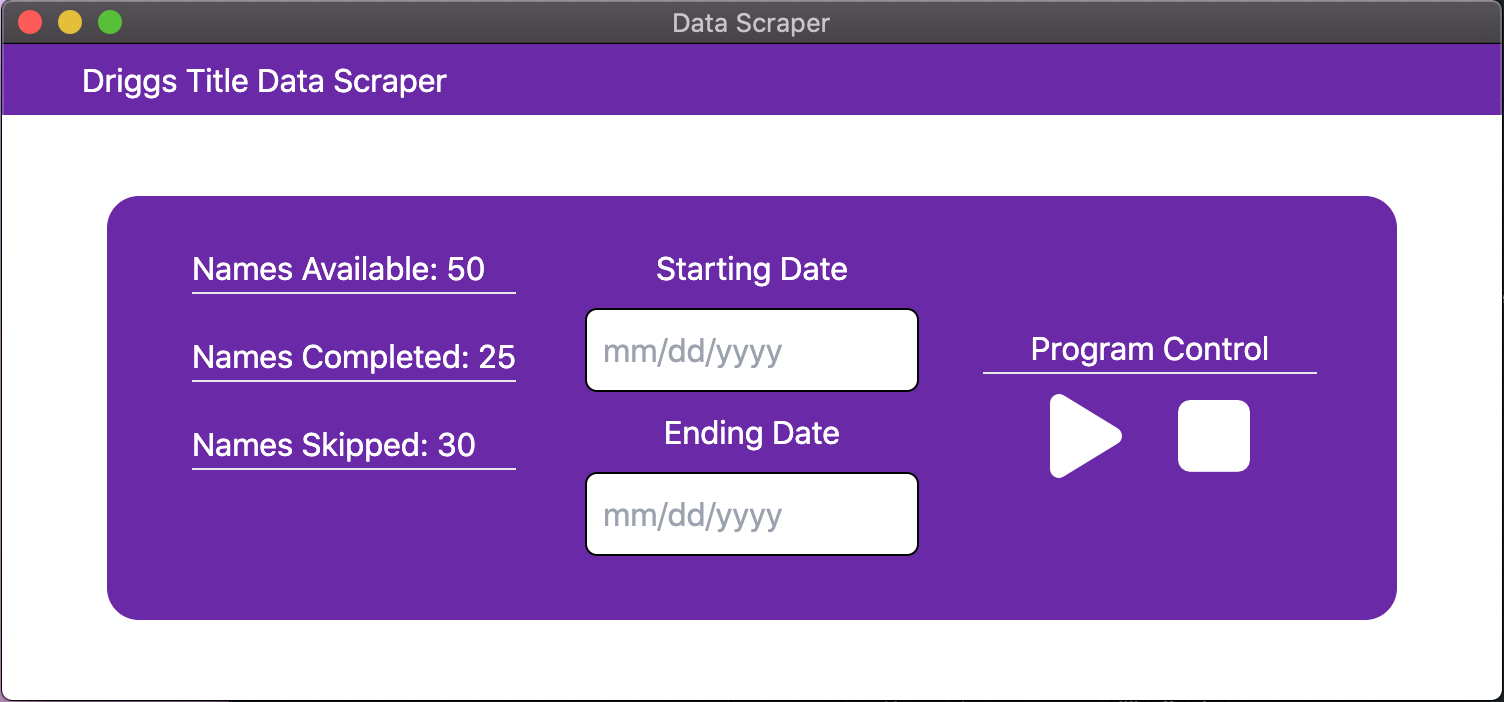
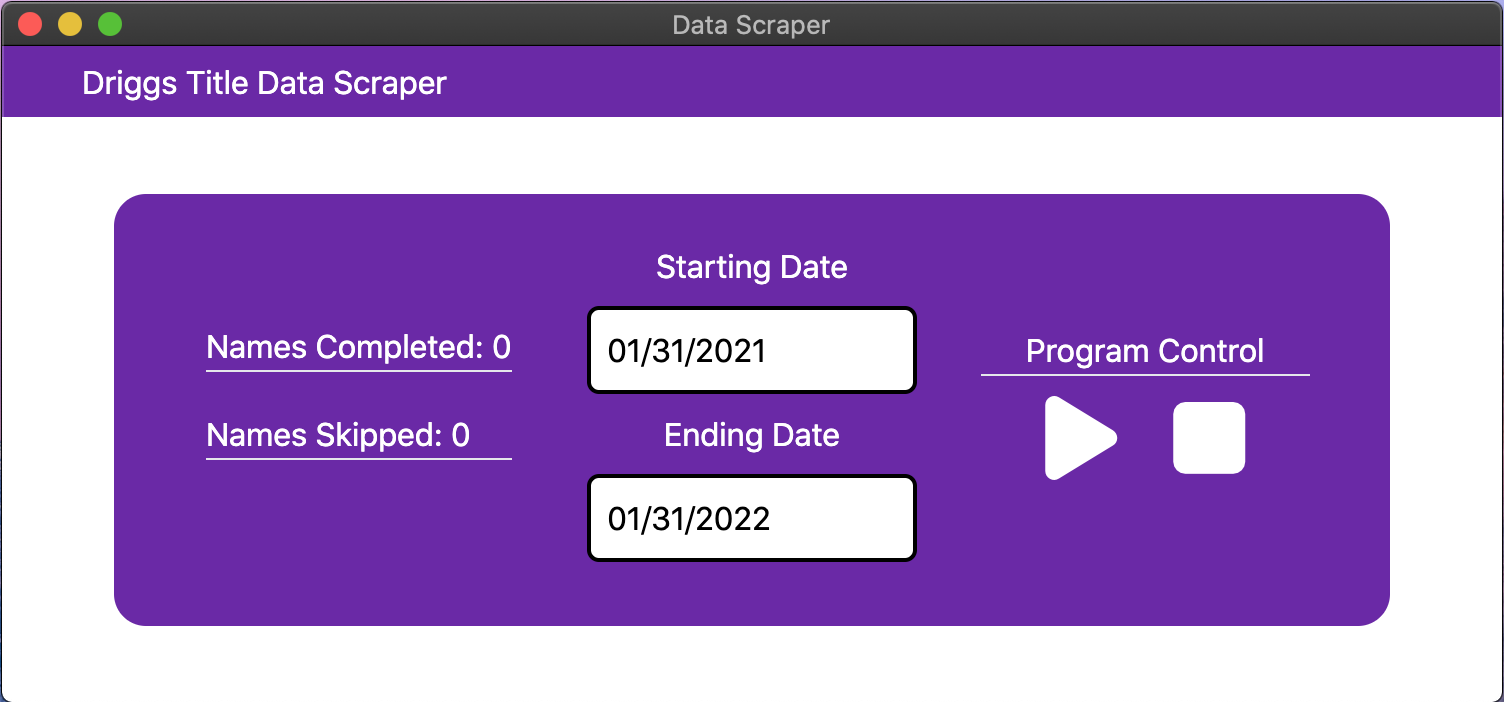
Added error messages, date validation
- Added error message/borders
- Date string validation
- Date range validation
- Improved MTA login routine
-  Updates screenshot
- Small readme updates

diff --git a/src/render/render.js b/src/render/render.js
@@ -2,6 +2,8 @@ const { ipcRenderer } = require('electron');
 
 const render = (function() {
 
+  const ERROR_DELAY = 1500;
+
   const startDate = document.getElementById('start-date');
   const endDate = document.getElementById('end-date');
 
@@ -13,6 +15,8 @@ const render = (function() {
   const namesCompleted = document.getElementById('completed');
   const namesSkipped = document.getElementById('skipped');
 
+  const errorMessage = document.getElementById('error');
+  const errorMessageText = document.getElementById('error-message');
 
   let play = false;
 
@@ -25,19 +29,50 @@ const render = (function() {
 
     playButton.addEventListener('click', function(e) {
 
-      let startingDate = startDate.value;
-      let endingDate = endDate.value;
+      let startingDateString = startDate.value;
+      let endingDateString = endDate.value;
 
       if (!play) {
-        playIcon.style.display = 'none';
-        pauseIcon.style.display = 'block';
-        play = true;
-        sendProgramState({play: 'play', dateOne: startingDate, dateTwo: endingDate});
+
+        if (isValidDate(startingDateString) && isValidDate(endingDateString) && isValidDateRange(startingDateString, endingDateString)) {
+          playIcon.style.display = 'none';
+          pauseIcon.style.display = 'block';
+          play = true;
+          sendProgramState({play: 'play', dateOne: startingDateString, dateTwo: endingDateString});
+        } else {
+          startShakeIcon(playIcon);
+          showError('Invalid date! <br />Dates must be entered in "mm/dd/yyyy" format.');
+
+          if (isValidDate(startingDateString) && isValidDate(endingDateString) &&
+              !isValidDateRange(startingDateString, endingDateString)) {
+            showError('Invalid date range! <br /> First date must take place before second date.');
+            addErrorBorder(startDate);
+            setTimeout(removeErrorBorder, ERROR_DELAY, startDate);
+            addErrorBorder(endDate);
+            setTimeout(removeErrorBorder, ERROR_DELAY, endDate);
+          } else {
+
+            if (!isValidDate(startingDateString)) {
+              addErrorBorder(startDate);
+              setTimeout(removeErrorBorder, ERROR_DELAY, startDate);
+            }
+
+            if (!isValidDate(endingDateString)) {
+              addErrorBorder(endDate);
+              setTimeout(removeErrorBorder, ERROR_DELAY, endDate);
+            }
+
+          }
+
+          setTimeout(hideError, ERROR_DELAY);
+          setTimeout(stopShakeIcon, 100, playIcon);
+        }
+
       } else {
         playIcon.style.display = 'block';
         pauseIcon.style.display = 'none';
         play = false;
-        sendProgramState({play: 'pause', dateOne: startingDate, dateTwo: endingDate});
+        sendProgramState({play: 'pause', dateOne: startingDateString, dateTwo: endingDateString});
       }
     });
 
@@ -56,6 +91,70 @@ const render = (function() {
       namesCompleted.innerHTML = "Names Completed: " + data.completed;
       namesSkipped.innerHTML = "Names Skipped: " + data.skipped;
     });
+  }
+
+  // Validates that the input string is a valid date formatted as "mm/dd/yyyy"
+  function isValidDate(dateString)
+  {
+      // First check for the pattern
+      if(!/^\d{1,2}\/\d{1,2}\/\d{4}$/.test(dateString))
+          return false;
+
+      // Parse the date parts to integers
+      var parts = dateString.split("/");
+      var day = parseInt(parts[1], 10);
+      var month = parseInt(parts[0], 10);
+      var year = parseInt(parts[2], 10);
+
+      // Check the ranges of month and year
+      if(year < 1000 || year > 3000 || month == 0 || month > 12)
+          return false;
+
+      var monthLength = [ 31, 28, 31, 30, 31, 30, 31, 31, 30, 31, 30, 31 ];
+
+      // Adjust for leap years
+      if(year % 400 == 0 || (year % 100 != 0 && year % 4 == 0))
+          monthLength[1] = 29;
+
+      // Check the range of the day
+      return day > 0 && day <= monthLength[month - 1];
+  };
+
+  function isValidDateRange(value, comparedTo){
+    value = value.split(/\D+/g);
+    comparedTo = comparedTo.split(/\D+/g);
+    let FirstDate = new Date(value[2],value[1],value[0]);
+    let SecondDate = new Date(comparedTo[2],comparedTo[1],comparedTo[0]);
+
+    return FirstDate.getTime() < SecondDate.getTime();
+ }
+
+  function startShakeIcon(element) {
+    element.classList.add('fa-shake');
+  }
+
+  function stopShakeIcon(element) {
+    element.classList.remove('fa-shake');
+  }
+
+  function showError(message) {
+    errorMessageText.innerHTML = message;
+    errorMessage.style.display = 'block';
+  }
+
+  function hideError() {
+    errorMessageText.innerHTML = "";
+    errorMessage.style.display = 'none';
+  }
+
+  function addErrorBorder(element) {
+    element.classList.add('border-red-600');
+    element.classList.add('border-8');
+  }
+
+  function removeErrorBorder(element) {
+    element.classList.remove('border-red-600');
+    element.classList.remove('border-8');
   }
 
   return {

diff --git a/src/index.html b/src/index.html
@@ -18,8 +18,6 @@
       <div class="w-auto h-auto flex flex-row justify-around items-center mx-10 p-6 bg-purple-800 rounded-2xl text-white">
         <div class="w-1/3 h-full flex flex-col justify-center items-center mx-4">
           <div class="w-auto h-full flex flex-col justify-center">
-            <h1>Names Available: 0</h1>
-            <hr class="w-auto h-1 mb-4">
             <h1 id="completed">Names Completed: 0</h1>
             <hr class="w-auto h-1 mb-4">
             <h1 id="skipped">Names Skipped: 0</h1>
@@ -30,11 +28,11 @@
           <form class="flex flex-col justify-center items-center">
             <div class="flex flex-col items-center">
               <h1>Starting Date</h1>
-              <input class="w-full h-auto rounded-md bg-white m-2 border border-black p-2 text-black" type="text" name="Start Date" placeholder="mm/dd/yyyy" id="start-date"/>
+              <input class="w-full h-auto rounded-md bg-white m-2 border-2 border-black p-2 text-black" type="text" name="Start Date" placeholder="mm/dd/yyyy" value="01/31/2021" id="start-date"/>
             </div>
             <div class="flex flex-col items-center">
               <h1>Ending Date</h1>
-              <input class="w-full h-auto rounded-md bg-white m-2 border border-black p-2 text-black" type="text" name="Start Date" placeholder="mm/dd/yyyy" id="end-date"/>
+              <input class="w-full h-auto rounded-md bg-white m-2 border-2 border-black border-black p-2 text-black" type="text" name="Start Date" placeholder="mm/dd/yyyy" value="01/31/2022" id="end-date"/>
             </div>
 
           </form>
@@ -51,6 +49,10 @@
           </div>
         </div>
       </div>
+    </div>
+
+    <div class="absolute left-1/2 top-12 bg-red-700 rounded-lg text-white text-center p-4" style="transform:translateX(-50%);display:none;" id="error">
+      <h3 id="error-message"></h3>
     </div>
 
   </body>

diff --git a/src/css/output.css b/src/css/output.css
@@ -468,6 +468,34 @@ Ensure the default browser behavior of the `hidden` attribute.
   --tw-backdrop-sepia:  ;
 }
 
+.absolute {
+  position: absolute;
+}
+
+.left-1\/2 {
+  left: 50%;
+}
+
+.top-1\/3 {
+  top: 33.333333%;
+}
+
+.top-1\/4 {
+  top: 25%;
+}
+
+.-top-16 {
+  top: -4rem;
+}
+
+.top-16 {
+  top: 4rem;
+}
+
+.top-12 {
+  top: 3rem;
+}
+
 .m-2 {
   margin: 0.5rem;
 }
@@ -558,13 +586,35 @@ Ensure the default browser behavior of the `hidden` attribute.
   border-radius: 0.375rem;
 }
 
+.rounded-lg {
+  border-radius: 0.5rem;
+}
+
 .border {
   border-width: 1px;
+}
+
+.border-2 {
+  border-width: 2px;
+}
+
+.border-8 {
+  border-width: 8px;
 }
 
 .border-black {
   --tw-border-opacity: 1;
   border-color: rgb(0 0 0 / var(--tw-border-opacity));
+}
+
+.border-red-800 {
+  --tw-border-opacity: 1;
+  border-color: rgb(153 27 27 / var(--tw-border-opacity));
+}
+
+.border-red-600 {
+  --tw-border-opacity: 1;
+  border-color: rgb(220 38 38 / var(--tw-border-opacity));
 }
 
 .bg-purple-800 {
@@ -577,6 +627,11 @@ Ensure the default browser behavior of the `hidden` attribute.
   background-color: rgb(255 255 255 / var(--tw-bg-opacity));
 }
 
+.bg-red-700 {
+  --tw-bg-opacity: 1;
+  background-color: rgb(185 28 28 / var(--tw-bg-opacity));
+}
+
 .p-6 {
   padding: 1.5rem;
 }
@@ -585,9 +640,17 @@ Ensure the default browser behavior of the `hidden` attribute.
   padding: 0.5rem;
 }
 
+.p-4 {
+  padding: 1rem;
+}
+
 .px-10 {
   padding-left: 2.5rem;
   padding-right: 2.5rem;
+}
+
+.text-center {
+  text-align: center;
 }
 
 .text-white {

diff --git a/src/Data-Scraper/main.js b/src/Data-Scraper/main.js
@@ -10,12 +10,6 @@ const dataScraper = (function(win) {
     let startingDate = arg.dateOne;
     let endingDate = arg.dateTwo;
 
-    if (!isValidDate(startingDate) || !isValidDate(endingDate)) {
-      startingDate = '';
-      endingDate = '';
-    }
-
-
     let options = {
       cwd: "/Users/mac/Documents/Desktop-Data-Scraper/src/Data-Scraper/",
       timeout: 10000
@@ -63,32 +57,5 @@ const dataScraper = (function(win) {
   }
 
 });
-
-// Validates that the input string is a valid date formatted as "mm/dd/yyyy"
-function isValidDate(dateString)
-{
-    // First check for the pattern
-    if(!/^\d{1,2}\/\d{1,2}\/\d{4}$/.test(dateString))
-        return false;
-
-    // Parse the date parts to integers
-    var parts = dateString.split("/");
-    var day = parseInt(parts[1], 10);
-    var month = parseInt(parts[0], 10);
-    var year = parseInt(parts[2], 10);
-
-    // Check the ranges of month and year
-    if(year < 1000 || year > 3000 || month == 0 || month > 12)
-        return false;
-
-    var monthLength = [ 31, 28, 31, 30, 31, 30, 31, 31, 30, 31, 30, 31 ];
-
-    // Adjust for leap years
-    if(year % 400 == 0 || (year % 100 != 0 && year % 4 == 0))
-        monthLength[1] = 29;
-
-    // Check the range of the day
-    return day > 0 && day <= monthLength[month - 1];
-};
 
 exports.dataScraper = dataScraper;

diff --git a/src/Data-Scraper/functions.py b/src/Data-Scraper/functions.py
@@ -58,15 +58,23 @@ def openMta(user, windows, selenBrowser):
     windows.updateWindows()
     wait()
     selenBrowser.get("https://www.mymta.com/")
+    wait(5)
+
+    username = selenBrowser.find_element_by_name("user")
+    password = selenBrowser.find_element_by_name("pw")
+    submit = selenBrowser.find_element_by_xpath('//input[@type="submit"]')
+
+    wait(5)
+    username.click()
     wait(3)
-    selenBrowser.find_element_by_name("user").send_keys(user.get_mta_username())
-    wait()
-    selenBrowser.find_element_by_name("pw").send_keys(user.get_mta_password())
-    wait(3)
-    selenBrowser.find_element_by_name("button").click()
-    wait()
-    selenBrowser.find_element_by_xpath('//input[@type="submit"]').click()
-    wait(3)
+    username.send_keys(user.get_mta_username())
+    wait(4)
+    password.click()
+    wait(4)
+    password.send_keys(user.get_mta_password())
+    wait(4)
+    submit.click()
+    wait(5)
     selenBrowser.get("https://www.mymta.com/agent_mktshare.php?print=1")
     wait()
     windows.addWindowToDict(1, 'mtaSearch')

diff --git a/src/Data-Scraper/main.py b/src/Data-Scraper/main.py
@@ -10,12 +10,8 @@ def main():
     selenBrowser = webdriver.Chrome('./chromedriver')
     windows = browser_windows.BrowserWindows(selenBrowser)
 
-    dateOne = "01/31/2021"
-    dateTwo = "01/31/2022"
-
-    if (len(sys.argv) == 3):
-        dateOne = sys.argv[1]
-        dateTwo = sys.argv[2]
+    dateOne = sys.argv[1]
+    dateTwo = sys.argv[2]
 
     functions.setDates(dateOne, dateTwo)
     functions.getAgencies(user, titleAgencies, windows, selenBrowser)

diff --git a/README.md b/README.md
@@ -2,6 +2,12 @@
 
 #### A desktop app built around my [data entry bot](https://github.com/Trevin-Small/Data-Scraper-V2) I use for work.
 
-- Built with electron, tailwind css, html, JS, node JS, and python.
-
 ![Desktop App](https://github.com/Trevin-Small/Desktop-Data-Scraper/blob/master/app_screenshot.png)
+
+# This app automates data entry for Driggs Title agency.
+- Enter in the date range for which you wish to complete records, and press play!
+-  The software will open a new selenium controlled browser instance and complete data entry automagically.
+- It keeps track of the number of "names" (records) completed, as well as names skipped.
+
+## Built with electron, tailwind css, html, JS, nodeJS, python, and even a bit of shell.
+- Truly a smorgasbord!
